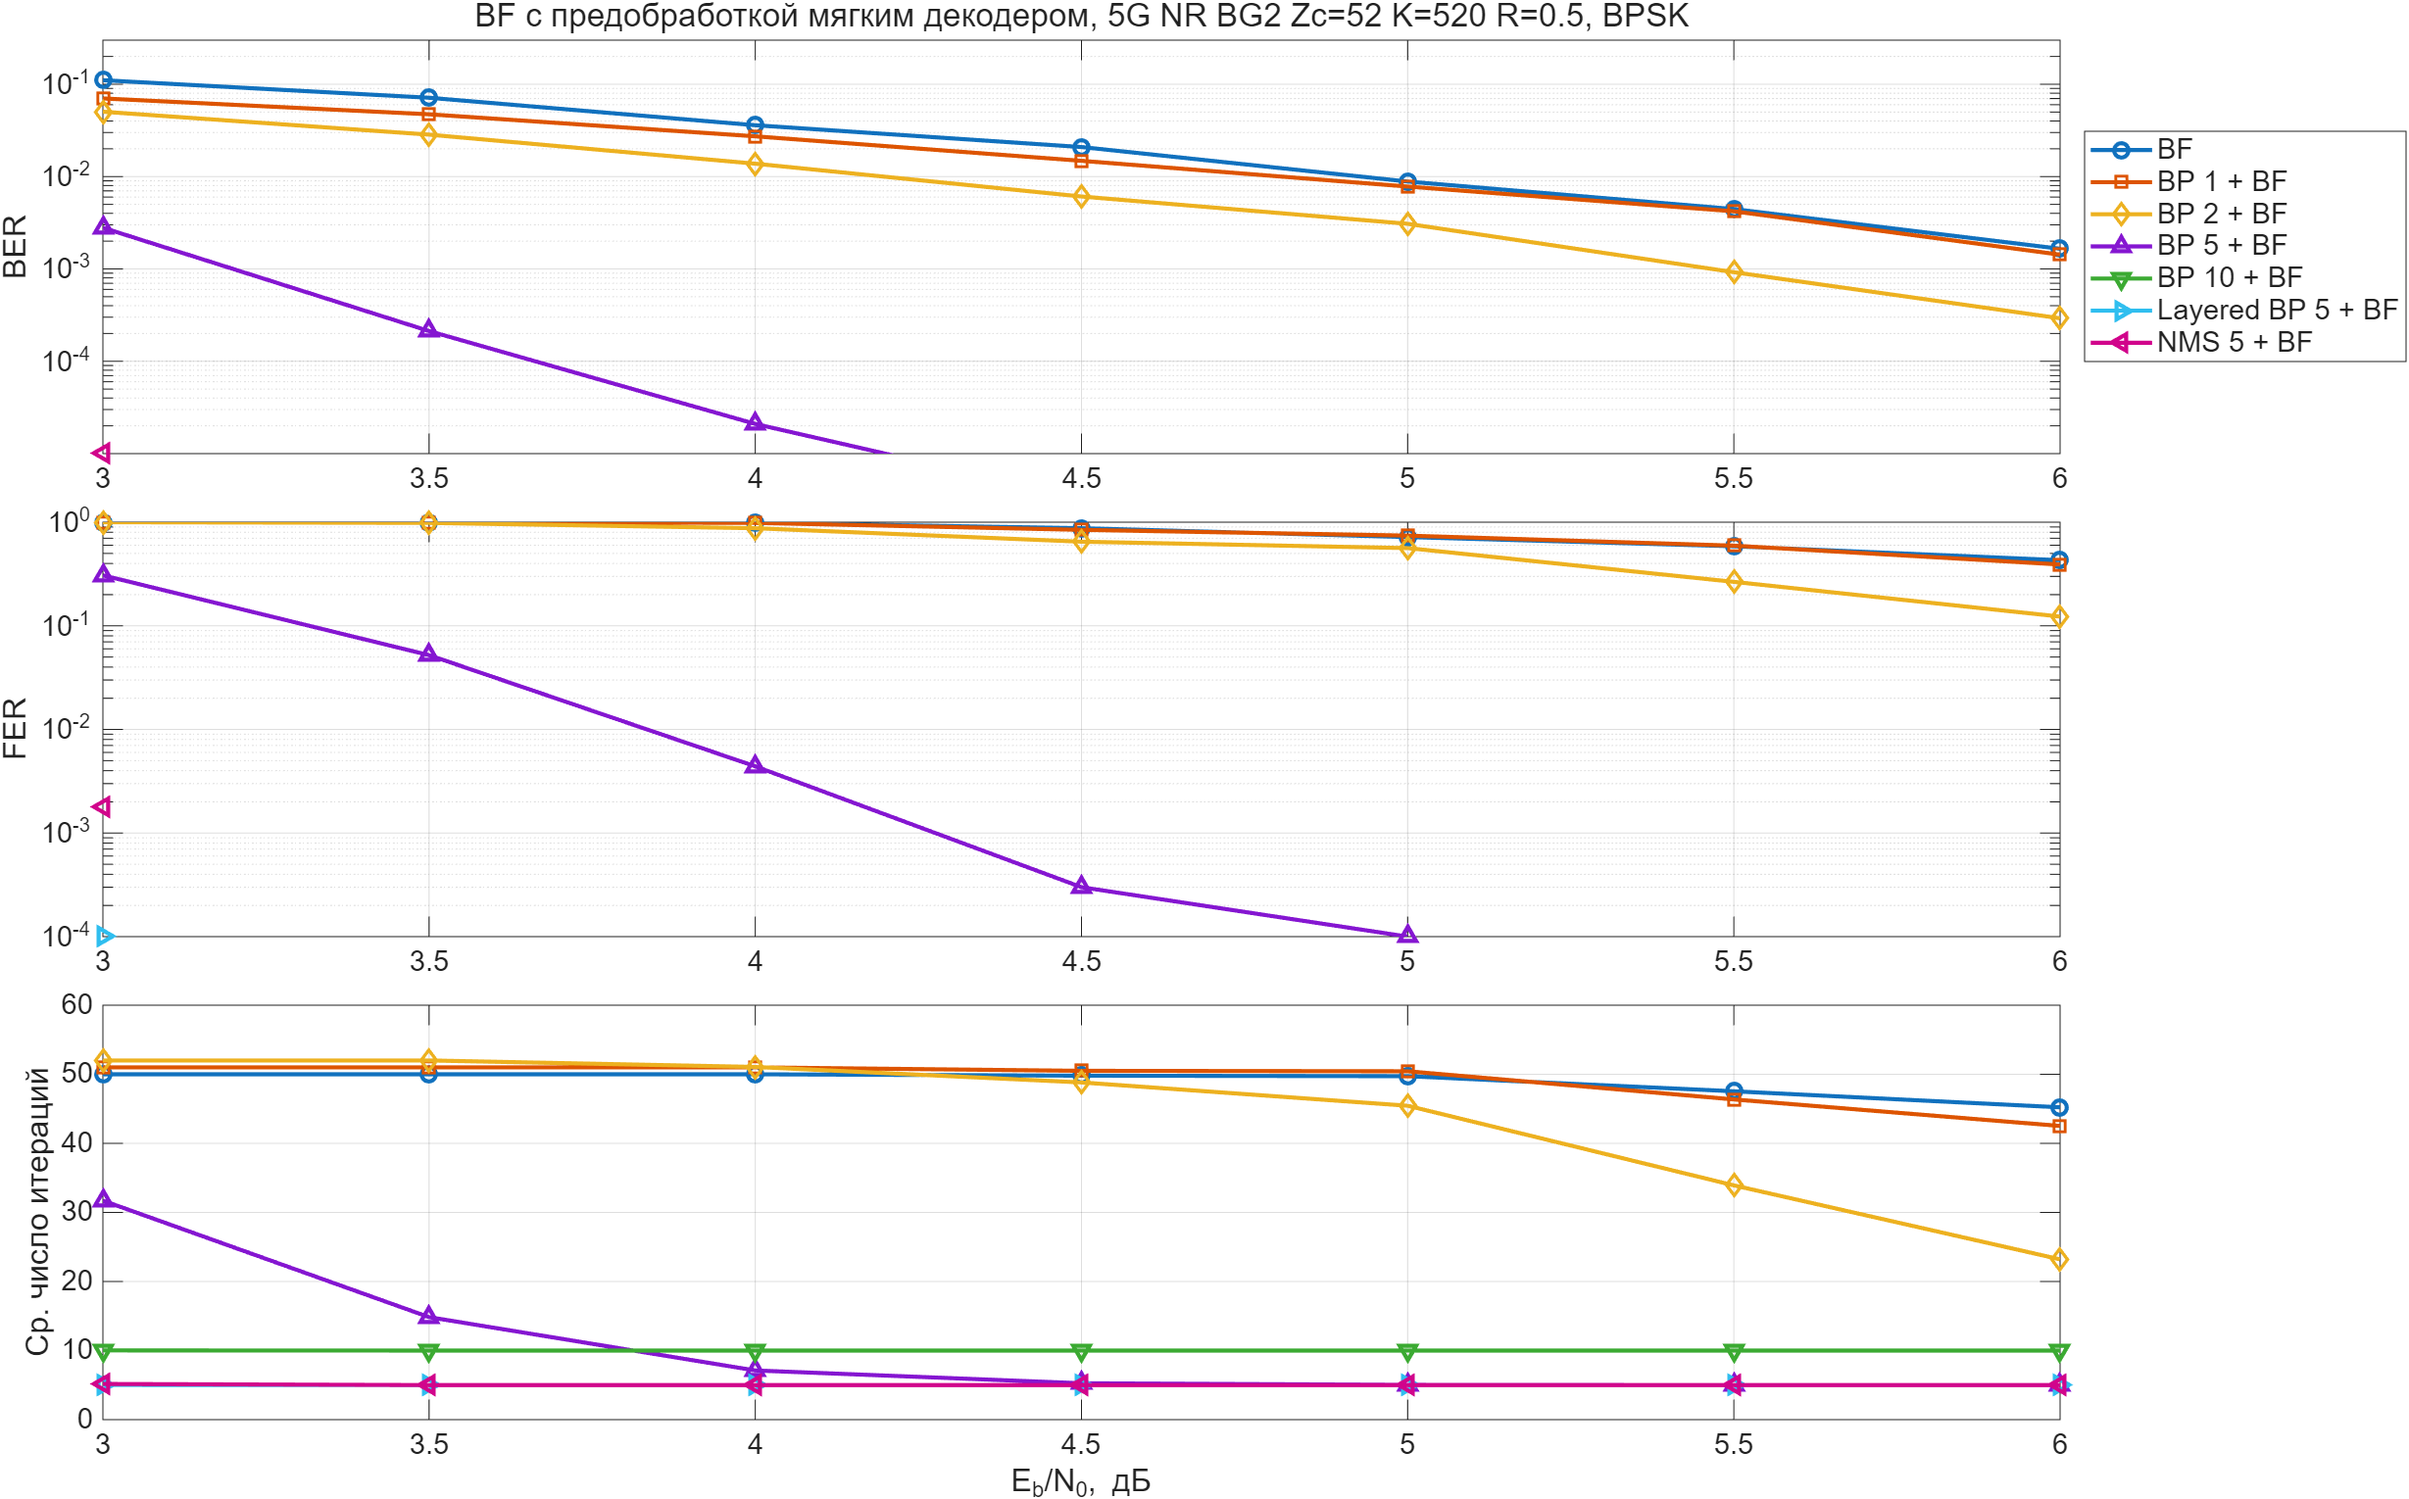
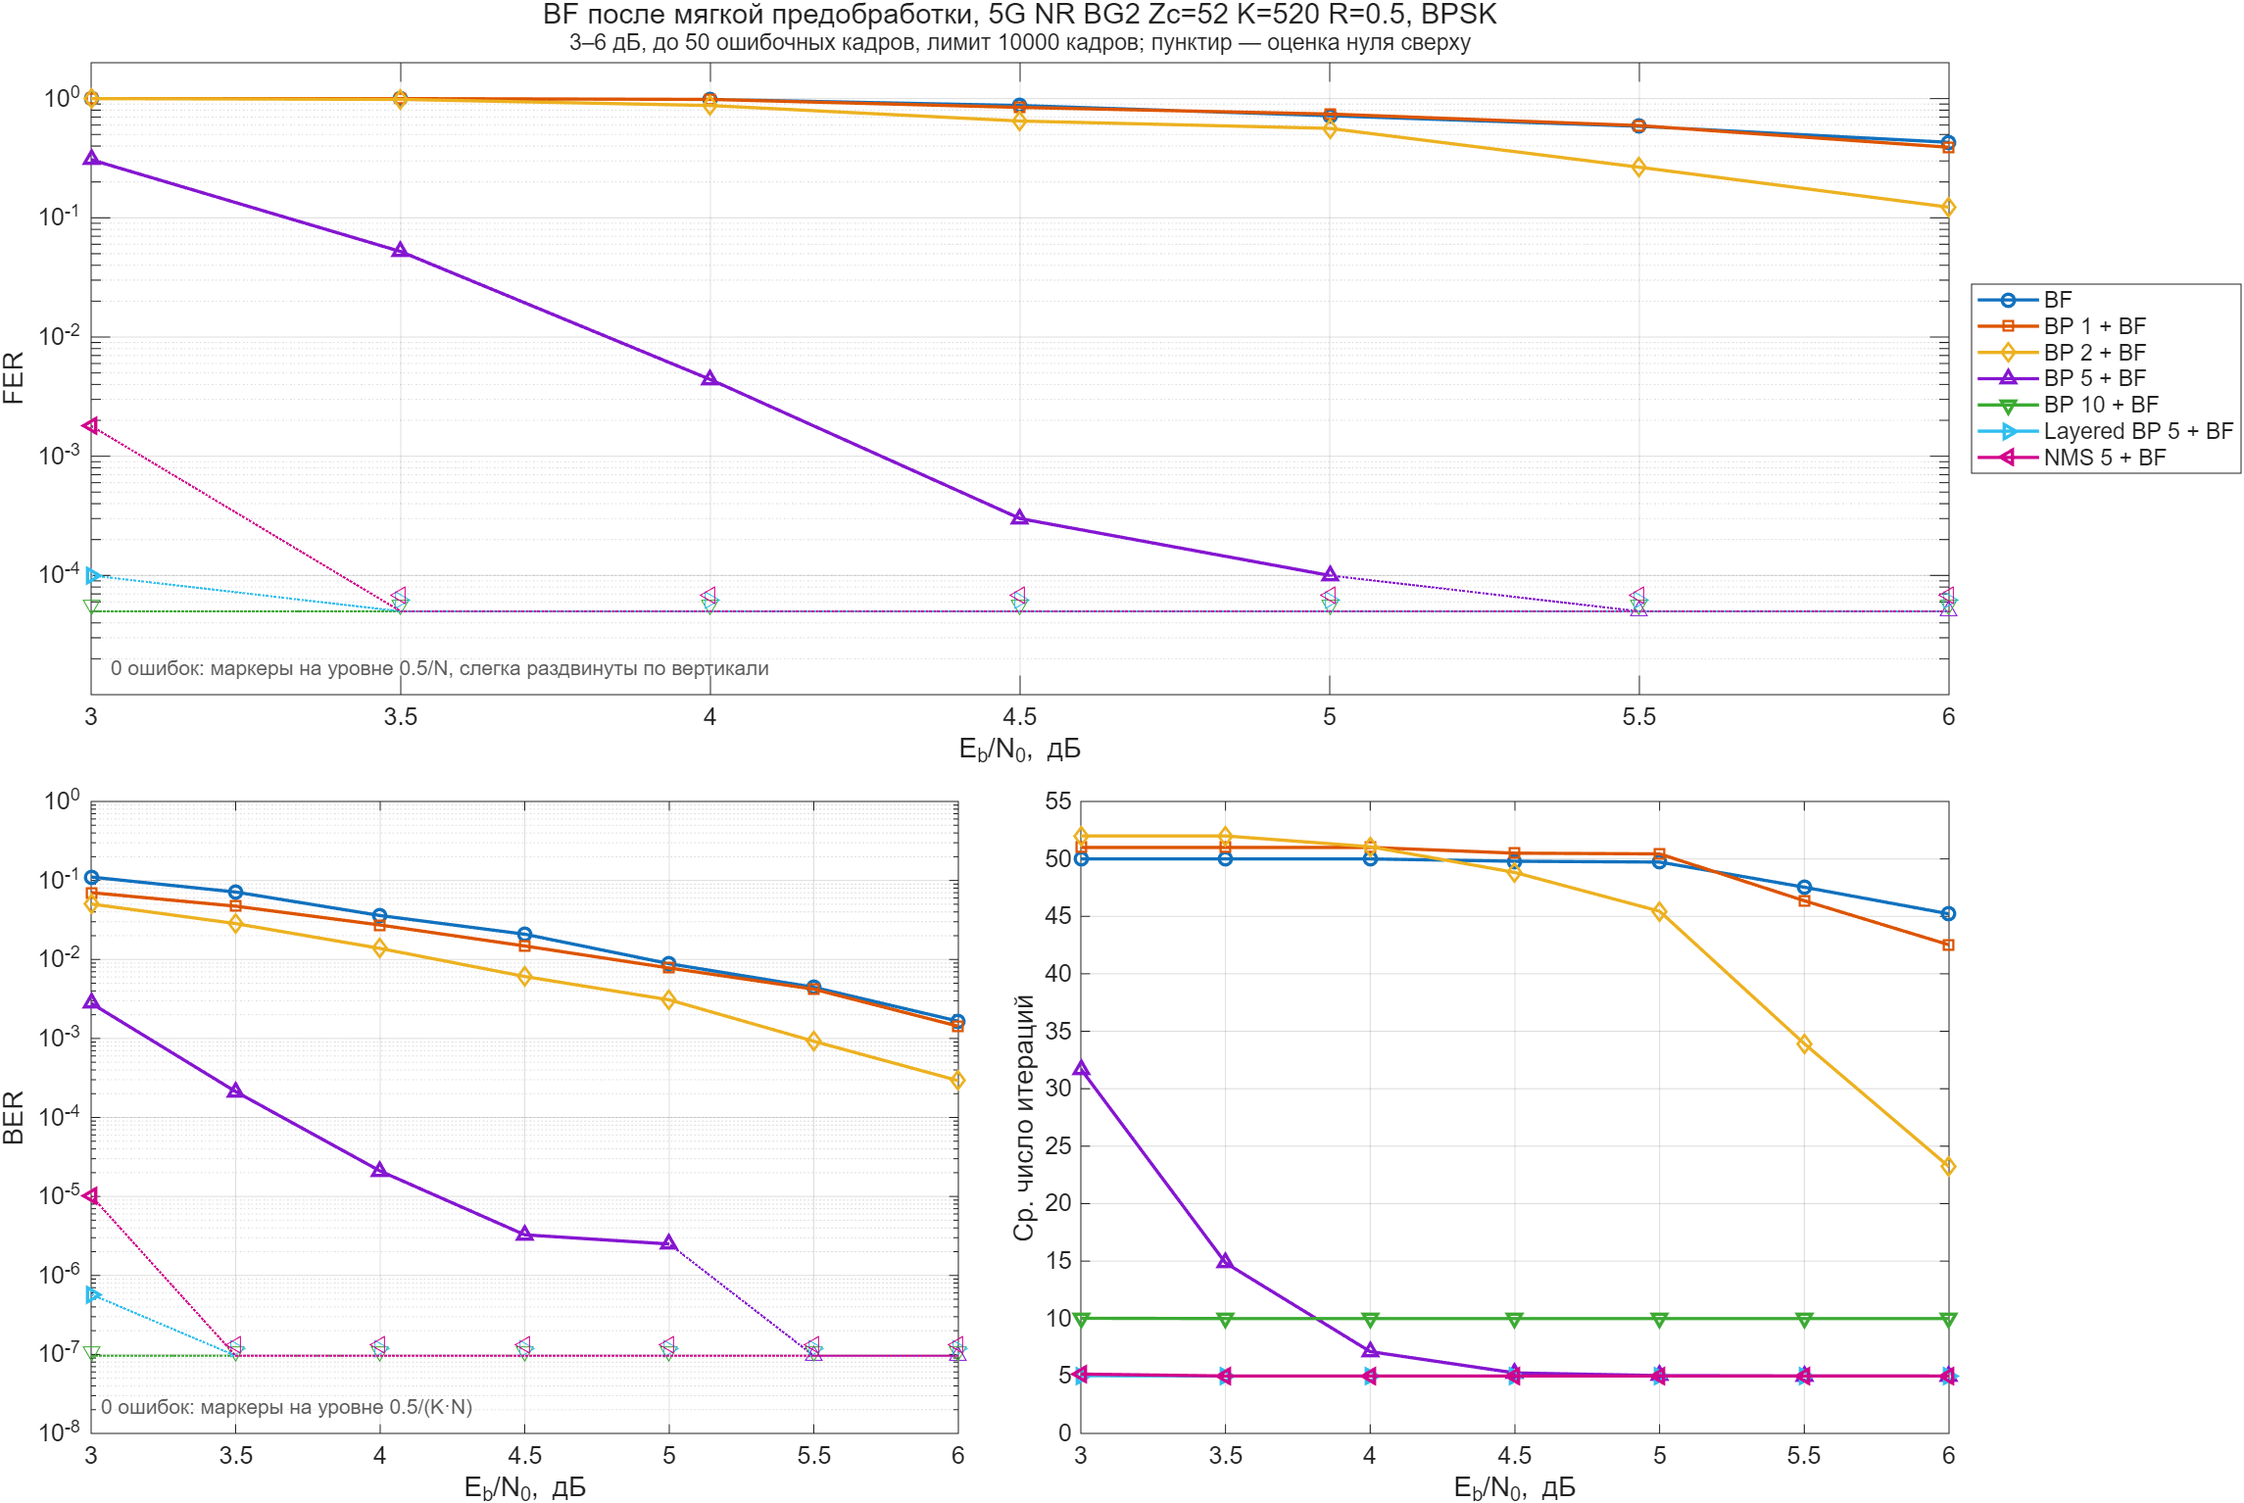
experiments/dyse: show zero-FER configs and iterations in BF preprocessing plot

diff --git a/matlab/experiments/dyse/plot_bf_preprocess.m b/matlab/experiments/dyse/plot_bf_preprocess.m
@@ -1,0 +1,85 @@
+function fig = plot_bf_preprocess(matFile)
+%PLOT_BF_PREPROCESS График BF с мягкой предобработкой.
+%   fig = PLOT_BF_PREPROCESS(matFile) — перерисовка из bf_preprocess.mat.
+%
+%   Нулевые BER/FER не выбрасываются: они показываются маркерами на уровне
+%   верхней оценки 0.5/N (для BER — 0.5/(K*N)) и слегка раздвинуты по
+%   вертикали, чтобы было видно все конфигурации. Настоящие значения —
+%   в bf_preprocess.csv.
+
+S = load(matFile);
+results = S.results;
+labels = S.labels;
+n = numel(results);
+co = get(groot, 'defaultAxesColorOrder');
+if size(co, 1) < n, co = lines(n); end
+mk = {'o', 's', 'd', '^', 'v', '>', '<', 'p', 'h'};
+
+fig = figure('Color', 'w', 'Position', [40 40 1500 1000]);
+tl = tiledlayout(fig, 2, 2, 'TileSpacing', 'compact', 'Padding', 'compact');
+axF = nexttile(tl, [1 2]);
+axB = nexttile(tl);
+axI = nexttile(tl);
+for ax = [axF axB axI]
+    hold(ax, 'on'); grid(ax, 'on'); box(ax, 'on');
+    set(ax, 'FontSize', 12);
+    xlim(ax, [3 6]); xticks(ax, 3:0.5:6);
+end
+set([axF axB], 'YScale', 'log');
+ylim(axF, [1e-5 2]);  ylabel(axF, 'FER');
+ylim(axB, [1e-8 1]);  ylabel(axB, 'BER');
+ylim(axI, [0 55]);    ylabel(axI, 'Ср. число итераций');
+xlabel(axF, 'E_b/N_0, дБ');
+xlabel(axB, 'E_b/N_0, дБ');
+xlabel(axI, 'E_b/N_0, дБ');
+
+for i = 1:n
+    r = results(i);
+    ok = r.numFrames > 0;
+    x = r.EbN0dB(ok);
+    % FER: нижняя оценка для нуля — 0.5/N
+    draw_metric(axF, x, r.fer(ok), 0.5 ./ r.numFrames(ok), i, co, mk, labels{i});
+    % BER: нижняя оценка для нуля — 0.5/(K*N)
+    draw_metric(axB, x, r.ber(ok), 0.5 ./ (r.K * r.numFrames(ok)), i, co, mk, labels{i});
+    % итерации
+    plot(axI, x, r.avgIter(ok), '-', 'Color', co(i, :), 'Marker', mk{i}, ...
+        'LineWidth', 1.6, 'MarkerSize', 6, 'DisplayName', labels{i});
+end
+
+text(axF, 0.01, 0.04, ['0 ошибок: маркеры на уровне 0.5/N, ' ...
+    'слегка раздвинуты по вертикали'], 'Units', 'normalized', ...
+    'FontSize', 10, 'Color', [0.35 0.35 0.35]);
+text(axB, 0.01, 0.04, '0 ошибок: маркеры на уровне 0.5/(K·N)', ...
+    'Units', 'normalized', 'FontSize', 10, 'Color', [0.35 0.35 0.35]);
+
+title(tl, sprintf('BF после мягкой предобработки, %s, BPSK', results(1).codeName), ...
+    'FontSize', 14);
+subtitle(tl, sprintf(['3–6 дБ, до %d ошибочных кадров, лимит %d кадров; ' ...
+    'пунктир — оценка нуля сверху'], results(1).params.minFrameErrors, ...
+    results(1).params.maxFrames), 'FontSize', 11);
+
+lg = legend(axF, 'Location', 'eastoutside');
+lg.FontSize = 11;
+end
+
+% -------------------------------------------------------------------------
+function draw_metric(ax, x, v, floor, i, co, mk, label)
+% Линия по ненулевым точкам + открытые маркеры на уровне floor для нулей.
+v = v(:).'; floor = floor(:).';
+zero = (v == 0) & isfinite(floor);
+% Фиктивный handle, чтобы конфигурация попала в легенду даже при всех нулях
+plot(ax, NaN, NaN, '-', 'Color', co(i, :), 'Marker', mk{i}, ...
+    'LineWidth', 1.6, 'MarkerSize', 6, 'DisplayName', label);
+if any(~zero)
+    plot(ax, x(~zero), v(~zero), '-', 'Color', co(i, :), 'Marker', mk{i}, ...
+        'LineWidth', 1.6, 'MarkerSize', 6, 'HandleVisibility', 'off');
+end
+if any(zero)
+    % небольшой сдвиг по вертикали, чтобы нули разных конфигураций не слились
+    yZero = floor(zero) .* (1 + 0.12 * (i - 4));
+    plot(ax, x(zero), yZero, 'Marker', mk{i}, 'LineStyle', 'none', ...
+        'Color', co(i, :), 'MarkerSize', 7, 'HandleVisibility', 'off');
+    plot(ax, x, max(v, floor), ':', 'Color', co(i, :), ...
+        'LineWidth', 1.0, 'HandleVisibility', 'off');
+end
+end

diff --git a/matlab/experiments/dyse/run_bf_preprocess.m b/matlab/experiments/dyse/run_bf_preprocess.m
@@ -55,12 +55,8 @@ end
 
 save(fullfile(resDir, 'bf_preprocess.mat'), 'results', 'labels', 'quick');
 
-% --- график: BER, FER и суммарное число итераций
-c = get(groot, 'defaultAxesColorOrder');
-o = struct('layout', 'column', 'xlim', [p0.EbN0dB(1) p0.EbN0dB(end)], ...
-    'berLim', [1e-5 0.3], 'ferLim', [1e-4 1], 'colors', c);
-fig = ldpc_plot_results(results, labels, sprintf( ...
-    'BF с предобработкой мягким декодером, %s, BPSK', results(1).codeName), o);
+% --- график: FER, BER и суммарное число итераций
+fig = plot_bf_preprocess(fullfile(resDir, 'bf_preprocess.mat'));
 exportgraphics(fig, fullfile(resDir, 'bf_preprocess.png'), 'Resolution', 150);
 
 % --- таблица и CSV

diff --git a/matlab/experiments/dyse/README.md b/matlab/experiments/dyse/README.md
@@ -73,7 +73,9 @@ Eb/N0 при FER = 1e-3. BF даже при 20 дБ остаётся на FER 2.
 В таблице `BP n` без BF — это тот же мягкий этап, но без последующего BF;
 так видно, что именно добавляет BF. Пробный прогон: 3–6 дБ, до 50 ошибочных
 кадров, лимит 1e4 кадров. `0` — ошибок не наблюдалось (верхняя оценка
-≈ 3e-4 при 1e4 кадрах).
+≈ 3e-4 при 1e4 кадрах). На графике нули показаны маркерами на уровне
+0.5/N (BER — 0.5/(K·N)) и слегка раздвинуты по вертикали, иначе на
+логарифмической оси они пропадают.
 
 | Конфигурация | 3 дБ | 3.5 дБ | 4 дБ | 4.5 дБ | 5 дБ | 6 дБ |
 |---|---|---|---|---|---|---|
